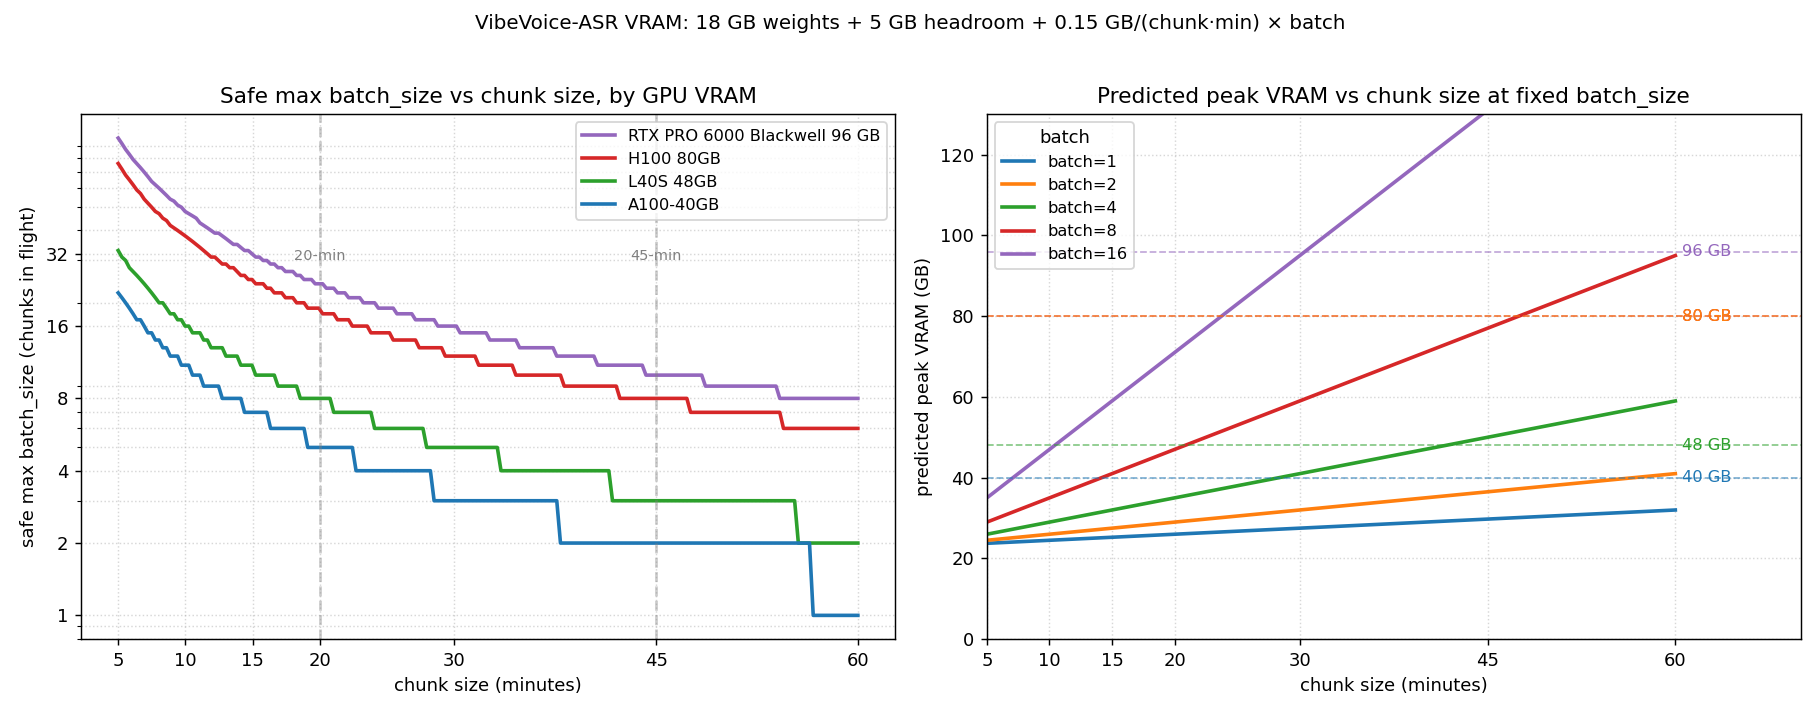
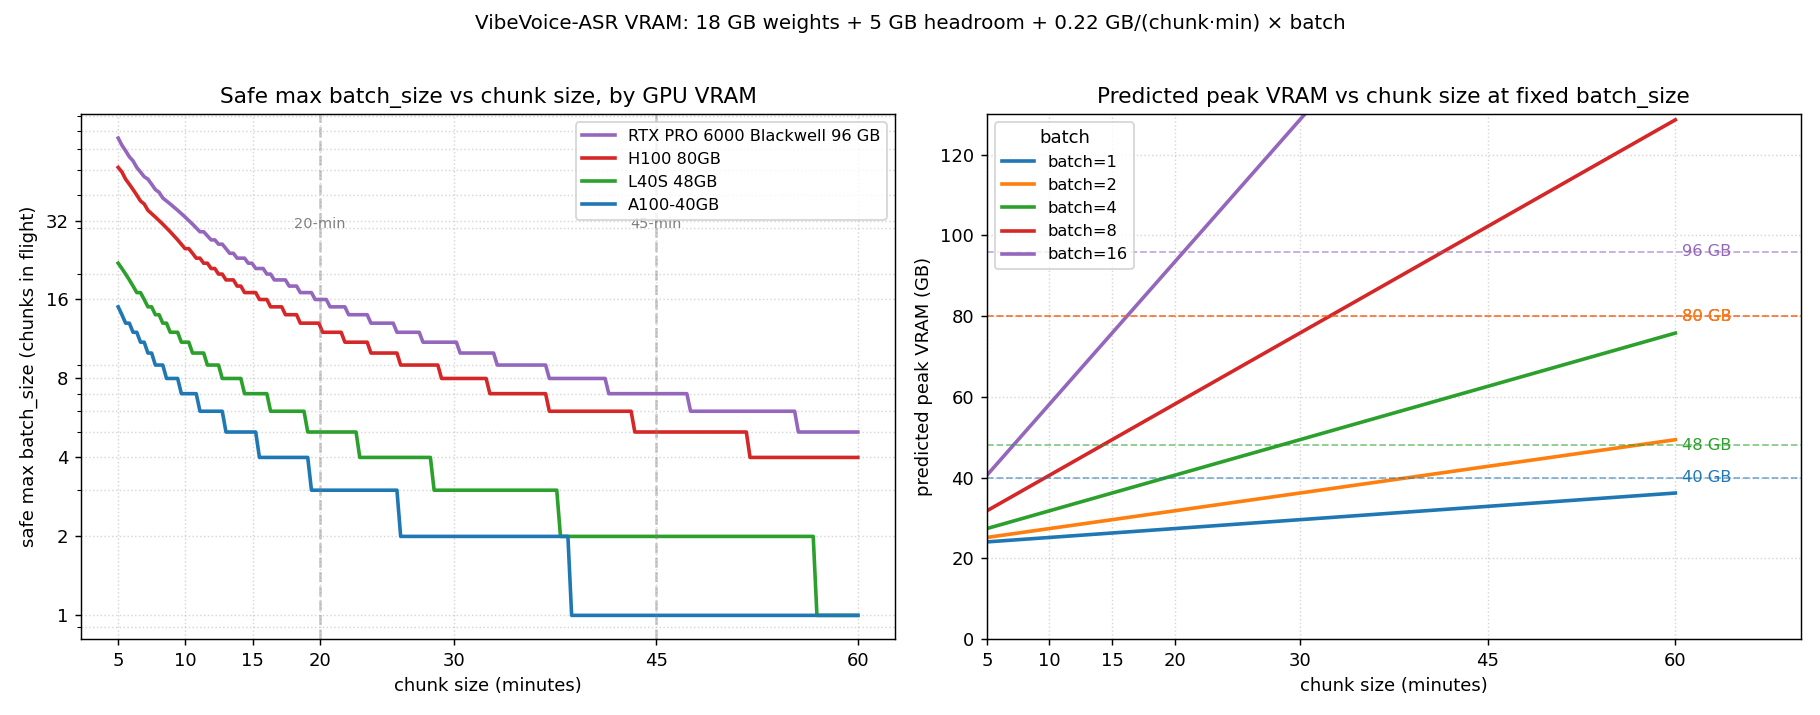
fix: increase VRAM KV rate from 0.15 to 0.22
Recalibrate the VRAM model constant based on a 3.86-hour RTX PRO 6000 run (5×45‑min chunks, 59 GB allocated / 87 GB reserved). Update KV per chunk‑minute from 0.15 to 0.22 in app.py and scripts/plot_vram.py, adjust the README model formula and the safe-batch table accordingly, and refresh the vram_curves.png asset. This increases conservatism to account for observed pool fragmentation/reserved memory peaks and reduces the reported safe batch sizes.

diff --git a/scripts/plot_vram.py b/scripts/plot_vram.py
@@ -1,11 +1,12 @@
 """Render the chunk-minute × VRAM × safe-batch curves for VibeVoice-ASR.
 
-VRAM model (empirically calibrated against the multi-GPU benchmark):
+VRAM model (empirically calibrated against the multi-GPU benchmark and the
+3.86-hour synthesized run on RTX PRO 6000):
     peak_vram(GB) = weights + headroom + KV_per_min × chunk_minutes × batch_size
-                  = 18    +   5      + 0.15           × chunk_minutes × batch_size
+                  = 18    +   5      + 0.22           × chunk_minutes × batch_size
 
 Solving for batch:
-    safe_batch = floor((vram - 23) / (0.15 × chunk_minutes))
+    safe_batch = floor((vram - 23) / (0.22 × chunk_minutes))
 """
 
 from __future__ import annotations
@@ -17,7 +18,7 @@ import numpy as np
 
 WEIGHTS_GB = 18.0
 HEADROOM_GB = 5.0
-KV_PER_MIN_GB = 0.15  # measured: 28 GB peak − 18 GB weights = 10 GB / (3 chunks × 20 min) ≈ 0.167; round down
+KV_PER_MIN_GB = 0.22  # measured from the 3.86h run: alloc 59.3 GB at batch=5 × 45 min ⇒ 0.18 GB/(chunk·min); bumped to 0.22 to cover pool fragmentation peaks (reserved 87.6 GB)
 
 # Modal GPUs we tested + L40S as a workstation reference.
 GPUS = [

diff --git a/app.py b/app.py
@@ -849,7 +849,7 @@ class VibeVoiceASR:
 # Empirically calibrated VRAM model; see scripts/plot_vram.py.
 _WEIGHTS_GB = 18.0
 _HEADROOM_GB = 5.0
-_KV_GB_PER_CHUNK_MIN = 0.15
+_KV_GB_PER_CHUNK_MIN = 0.22
 
 
 def _auto_batch_size(

diff --git a/README.md b/README.md
@@ -85,10 +85,11 @@ only changes wall time, not what comes back.
 
 ## VRAM model and auto batch sizing
 
-Empirically calibrated:
+Empirically calibrated (against a 3.86-hour run on RTX PRO 6000 with 5×45-min
+chunks peaking at 59 GB allocated / 87 GB reserved):
 
 ```
-peak_vram(GB) ≈ 18 (weights) + 5 (headroom) + 0.15 × chunk_minutes × batch_size
+peak_vram(GB) ≈ 18 (weights) + 5 (headroom) + 0.22 × chunk_minutes × batch_size
 ```
 
 `batch_size=0` (the default) picks the largest safe value at runtime via
@@ -98,10 +99,10 @@ Max safe `batch_size` per GPU per chunk size:
 
 | GPU                              | 10 min | 20 min | 30 min | 45 min | 55 min |
 |----------------------------------|-------:|-------:|-------:|-------:|-------:|
-| RTX PRO 6000 Blackwell (96 GB)   |     48 |     24 |     16 |     10 |      8 |
-| H100 / A100-80 (80 GB)           |     38 |     19 |     12 |      8 |      6 |
-| L40S (48 GB)                     |     16 |      8 |      5 |      3 |      3 |
-| A100-40GB (40 GB)                |     11 |      5 |      3 |      2 |      2 |
+| RTX PRO 6000 Blackwell (96 GB)   |     33 |     16 |     11 |      7 |      6 |
+| H100 / A100-80 (80 GB)           |     25 |     12 |      8 |      5 |      4 |
+| L40S (48 GB)                     |     11 |      5 |      3 |      2 |      2 |
+| A100-40GB (40 GB)                |      7 |      3 |      2 |      1 |      1 |
 
 Curve plot in [`assets/vram_curves.png`](./assets/vram_curves.png);
 regenerate with:
